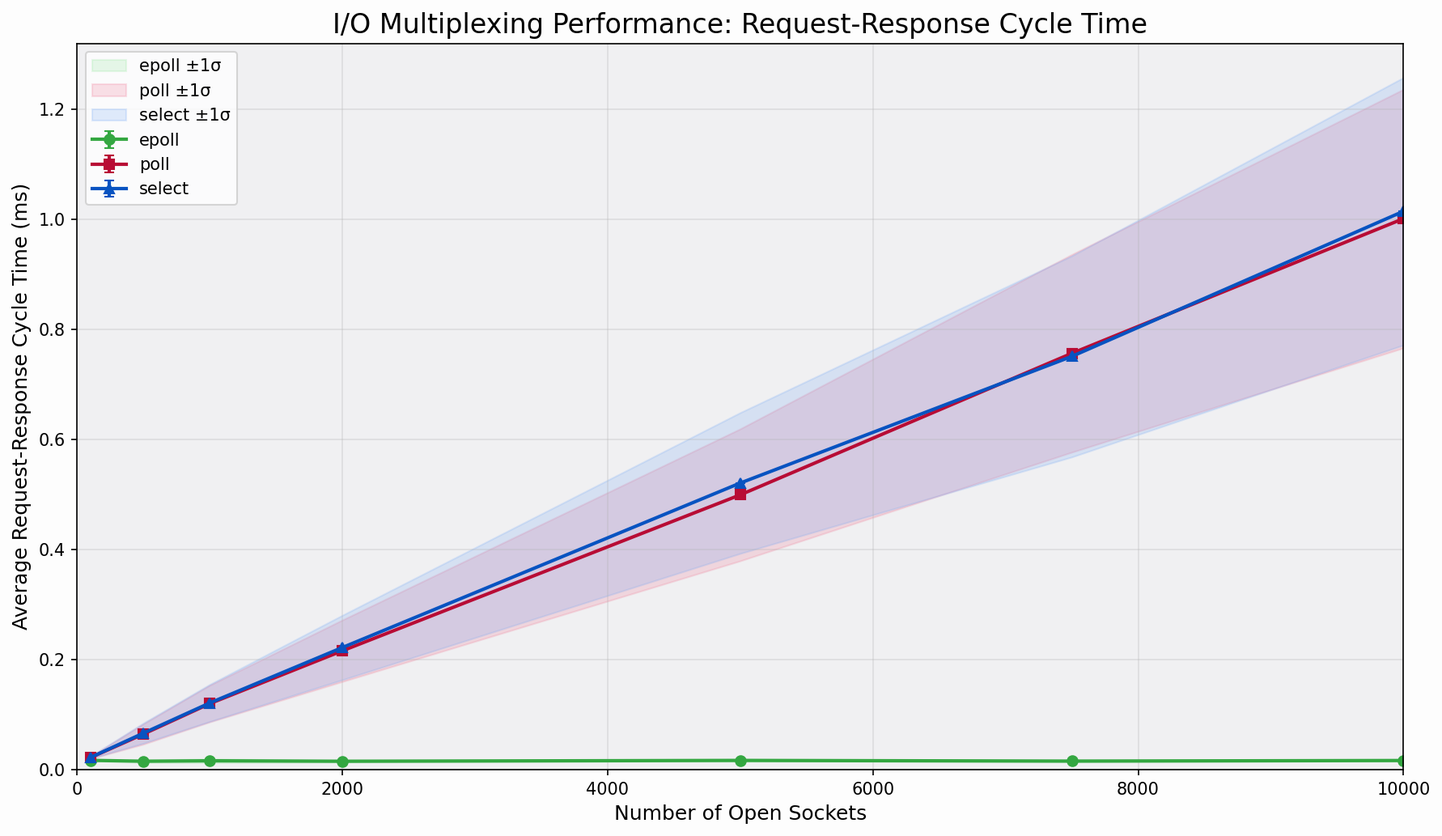
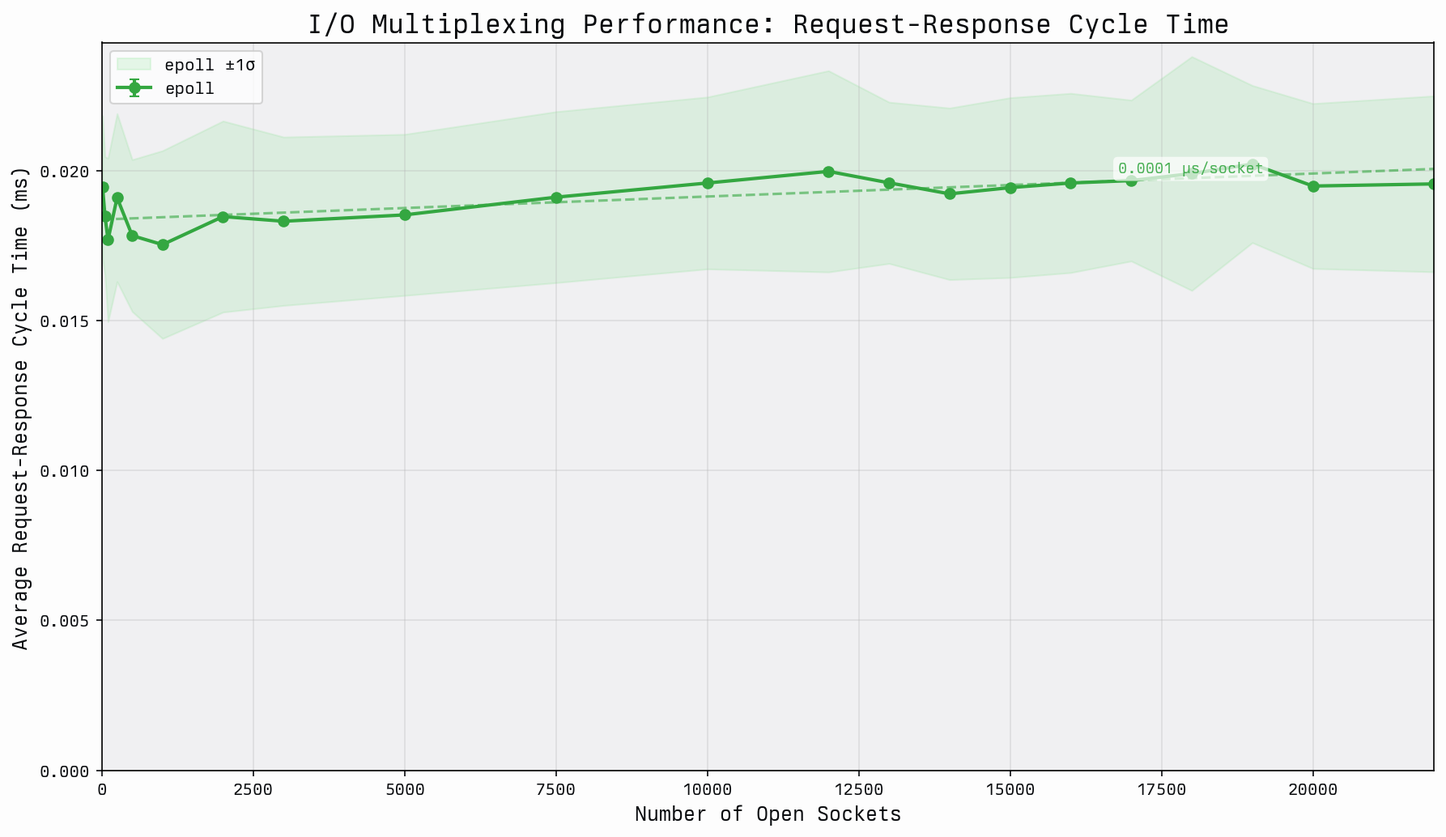
edits

diff --git a/src/content/blog/epoll.md b/src/content/blog/epoll.md
@@ -21,11 +21,11 @@ Which gives us some sense of what we are talking about. But I find that a better
 
 > The classic Unix way to wait for I/O events on multiple file descriptors is with the select() and poll() system calls. When a process invokes one of those calls, the kernel goes through the list of interesting file descriptors, checks to see if non-blocking I/O is available on any of them, and adds the calling process to a wait queue for each file descriptor that would block. This implementation works reasonably well when the number of file descriptors is small. But if a process is managing thousands of file descriptors, the select() and poll() calls must check every single one of them, and add the calling process to thousands of wait queues. For every single call. Needless to say, this approach does not scale very well. [[1]](https://lwn.net/Articles/13587/)
 
-This quote comes from the initial introduction of epoll into the Linux kernel in late 2002. The idea, being rather explicitly outlined, was that watching changes on file descriptors was far too slow at as the count numbered in the thousands. We will discuss why that is done important shortly, but monitoring thousands of file descriptors is one of the foundations of computing today. It’s not uncommon for a single service to get into the tens of thousands of file descriptors. [[2]](https://www.kegel.com/c10k.html) Runtimes that ended up depending on this change, like Node.js, wouldn’t be released until 7 years later, and the foundational event loop for Node.js called [libuv](/blog/libuv) would not be released 2011. It’s not a stretch today to say that epoll is one of the foundations of the internet. [[3]](https://darkcoding.net/software/epoll-the-api-that-powers-the-modern-internet/) In order to understand epoll, the problems it solves and the problems it creates, you have to understand two major ideas: file descriptors and triggering. Let’s start by talking about file descriptors. As with any library, the content in this article may drift towards incorrect over time. This article has been drafted with a lens for Linux `v6.8`. This article will provide an incomplete picture, and if the reader finds themselves wanting for more details, I would encourage [diving into the the Linux source coude](https://github.com/torvalds/linux).
+This quote comes from the initial introduction of epoll into the Linux kernel in late 2002. The idea, being rather explicitly outlined, was that watching changes on file descriptors was far too slow at as the count numbered in the thousands. We will discuss why that is done important shortly, but monitoring thousands of file descriptors is one of the foundations of computing today. It’s not uncommon for a single service to get into the tens of thousands of file descriptors. [[2]](https://www.kegel.com/c10k.html) Runtimes that ended up depending on this change, like Node.js, wouldn’t be released until 7 years later, and the foundational event loop for Node.js called [libuv](/blog/libuv) would not be released 2011. It’s not a stretch today to say that epoll is one of the foundations of the internet. [[3]](https://darkcoding.net/software/epoll-the-api-that-powers-the-modern-internet/) In order to understand epoll, the problems it solves and the problems it creates, you have to understand two major ideas: file descriptors and triggering. Let’s start by talking about file descriptors. As with any library, the content in this article may drift towards incorrect over time. This article has been drafted with a lens for Linux `v6.8`. This article will provide an incomplete picture, and if the reader finds themselves wanting for more details, I would encourage diving into the references and linked content, there is a wealth of information in the references section alone.
 
 # File descriptors
 
-There will be two very similar terms that we will be introducing, **file descriptors** and **file descriptions**. It’s very important to note that while these two ideas are related, they represent different concepts. A file descrition is fundamentally an internal data structure in the linux kernel, we will revisit them momentarily. The important part is **file descriptions are an internal data structure, not to be confused with the more common file descriptors**. We will see why this statement is important later. So what are **file descriptors**?
+There will be two very similar terms that we will be introducing, **file descriptors** and *file descriptions*. It’s very important to note that while these two ideas are related, they represent different concepts. A file descrition is fundamentally an internal data structure in the linux kernel, we will revisit them momentarily. The important part is **file descriptions are an internal data structure, not to be confused with the more common file descriptors**. We will see why this statement is important later. So what are **file descriptors**?
 
 > In Unix and related computer operating systems, a file descriptor (FD, less frequently fildes) is an abstract indicator (handle) used to access a file or other input/output resource, such as a pipe or network socket. [[4]](https://en.wikipedia.org/wiki/File_descriptor)
 
@@ -59,7 +59,7 @@ int main(int f, char *argv[]) {
 
 In this example, we start by opening a file `"abc.txt"`. This file is opened with the permissions `666`, which indicates that the owner, the group and other can all read and write. [[5]](https://en.wikipedia.org/wiki/File-system_permissions) It passes in three flags, represent three ideas: the file is opened in a read/write mode (`O_RDWR`); if the file does not exist, create it as a regular file (`O_CREAT`); if the file already exists and is a regular file, and the access mode allows writing, it will be truncated to length 0 (`O_TRUNC`). We then proceed to immediately write the data `"foo"` to the integer returned from the `open()` call. This integer represents a file descriptor, more specifically a small, nonnegative integer that is an index to an entry in the process's table of open file descriptors. [[6]](https://man7.org/linux/man-pages/man2/open.2.html) We finally wrap up by closing the open file descriptor, and our text file now contains the text `foo`. The question remains though, how do we get from an integer to writing data on a filesystem?
 
-We can start to answer that question with a simplistic view of the world, much like our previous test program. We can break down I/O interactions on Linux into three main components: file descriptors, file tables, and inode tables. Those relationships can be seen here. As a note, we are going to be focused on **file handling** in Linux, a great deal of the concepts apply in pipes and sockets, however, it's just easier to view the world as files.
+We can start to answer that question with a simplistic view of the world, much like our previous test program. We can break down I/O interactions on Linux into three main components: file descriptors, file tables, and inode tables. Those relationships can be seen here. As a note, we are going to be focused on **file handling in Linux in this section**, a great deal of the concepts apply to pipes and sockets, however, it's just easier to view the world as files.
 
 ![A diagram representing three tables, a file descriptor table, a file table and an inode table. There are several entries in each along with arrows relating the left most table, the file descriptor table, to the middle table, the file table, and additional arrows relating the file table to the right most table, the inode table](../../assets/epoll/epoll_simple.png "Simplistic File Descriptor View")
 
@@ -69,7 +69,7 @@ File tables are the bridge between the application view of the world and the fil
 
 > In the traditional implementation of Unix, file descriptors index into a per-process file descriptor table maintained by the kernel, that in turn indexes into a system-wide table of files opened by all processes, called the file table. This table records the mode with which the file (or other resource) has been opened: for reading, writing, appending, and possibly other modes. [[4]](https://en.wikipedia.org/wiki/File_descriptor)
 
-Unfortunately, this model only exists in theory. In reality, there is no large table that represents the bridge between files. Instead we have a following structure.
+Unfortunately, this model only exists in theory. In reality, there is **no large table that represents the bridge between files**. Instead we have a following structure.
 
 ```c
 struct file {
@@ -108,7 +108,7 @@ struct file {
 }
 ```
 
-As you can see from the above, there is some information about the flags for the file, the read ahead state of the file, the position, locks, etc. Rather curiously, there are epoll mechanisms contained within the struct as well. That is to say, there is a fair amount going on with this data structure. This is what is often referred to as a **file description**. This data structure was referenced previous in our process file descriptor table previously. The most important piece I want to call out is the `struct inode` reference in the file. This is the means by which file descriptors are able to reference filesystem elements known as `inodes`. So what is an inode?
+As you can see from the above, there is some information about the flags for the file, the read ahead state of the file, the position, locks, etc. Rather curiously, there are epoll mechanisms contained within the struct as well. That is to say, there is a fair amount going on with this data structure. This is what is often referred to as a *file description*. This data structure was referenced previous in our process file descriptor table previously. The most important piece I want to call out is the `struct inode` reference in the file. This is the means by which file descriptors are able to reference filesystem elements known as `inodes`. So what is an inode?
 
 ## inode table
 
@@ -123,7 +123,7 @@ The formal definition highlights some additional pieces.
 
 > An inode (index node) is a data structure in a Unix-style file system that describes a file-system object such as a file or a directory. Each inode stores the attributes and disk block locations of the object's data. File-system object attributes may include metadata (times of last change, access, modification), as well as owner and permission data. [[7]](https://en.wikipedia.org/wiki/Inode)
 
-However, much like the file table, the inode table doesn't exist. It's an abstraction, in reality, it's just references. Each filesystem contains it's own version of the inode table, called a superblock. We won't discuss the intricacies of particular file system superblock management here, we will instead stop at the discussing of the `struct inode`.
+However, much like the file table, the inode table doesn't really exist. It's an abstraction, in reality, it's just references. Each filesystem contains it's own version of the inode table, called a superblock. We won't discuss the intricacies of particular file system superblock management here, we will instead stop at the discussing of the `struct inode`.
 
 ```c
 struct inode {
@@ -236,11 +236,11 @@ There is so much to file descriptors (often referred to as **fide** from here in
    2. flags
    3. file description pointers, `flag ptr`
 
-These aren't completely outlandish, and give us a reasonable frame of reference to discuss the more important pieces of polling. With that, our view of the world resemebles the following.
+These aren't completely outlandish, and give us a reasonable frame of reference to discuss the more important pieces of polling. With that, our view of the world resembles the following.
 
 ![A diagram of the relationship between process file descriptor tables, file tables and inode tables. It displays four tables of varying colors, two process file descriptor tables and one for the each of the remaining two types. It establishes the major relationships, drawing arrows between shared file descriptors resulting from forks, individual file descriptors and the relationship between file and inode on disk.](../../assets/epoll/epoll_complex.png "A more realistic view of file descriptors")
 
-Now for understanding **epoll**, there are two additional concepts we need to discuss. Those being `fork()` [[8]](https://www.man7.org/linux/man-pages/man2/fork.2.html) and one of the flags for file descriptors called `O_CLOEXEC`, which stands for Open Close-on-Exec. Let's talk about `fork()` first. We need to extend our simplistic example a bit in order to discuss it. As a brief aside for process management, there are only a handful of ways to actually start a process in Linux, the most common of which are `fork()` and `exec()`. [[9]](https://www.man7.org/linux/man-pages/man3/exec.3.html) It's fairly uncommon to see one without the other, so we will be extend our simple process before and splitting up the opening of file descriptors, and the writing of file descriptors.
+Now for understanding epoll, there are two additional concepts we need to discuss. Those being `fork()` [[8]](https://www.man7.org/linux/man-pages/man2/fork.2.html) and one of the flags for file descriptors called `O_CLOEXEC`, which stands for Open Close-on-Exec. Let's talk about `fork()` first. We need to extend our simplistic example a bit in order to discuss it. As a brief aside for process management, there are only a handful of ways to actually start a process in Linux, the most common of which are `fork()` and `exec()`. [[9]](https://www.man7.org/linux/man-pages/man3/exec.3.html) It's fairly uncommon to see one without the other, so we will be extend our simple process before and splitting up the opening of file descriptors, and the writing of file descriptors.
 
 Let's start with our parent.
 
@@ -345,7 +345,9 @@ We still start with the same world view as before, only with the change to the _
 
 ![A diagram of the relationship between process file descriptor tables, file tables and inode tables. It displays four tables of varying colors, two process file descriptor tables and one for the each of the remaining two types. It establishes the major relationships, drawing arrows between shared file descriptors resulting from forks, individual file descriptors and the relationship between file and inode on disk. It has one of the entries gray out in the second file descriptor table, this has a counterpart in the first table where a CLO flag has been set](../../assets/epoll/epoll_close_post.png)
 
-So our writer can not write directly to our file descriptor after the `exec()` which results in the text `"foo"` only being written in the parent process, not in the child. While we have looked at the intricacies of the pieces that make up this diagram, and a simple example that writes to a file, it begs the question, what would a real interaction look like? The following is an example of a simple HTTP server that helps to better illustrate a real world use case.
+So our writer can not write directly to our file descriptor after the `exec()` which results in the text `"foo"` only being written in the parent process, not in the child. So why is this important for epoll? Well, there is a rather serious design flaw in epoll that requires special case handling. Since epoll registers the *file description*, not the **file descriptor**, you need careful handling to avoid sharing epoll-registered file descriptors in `exec()` or `dup()` calls. You could perform careful defensive programming with our `O_CLOEXEC`, or you can use the `EPOLLEXCLUSIVE` flag. Which is all to say, be wary about file descriptor management with epoll, as we will see later, it is a kernel space structure and does not directly interact with the process file table through the use of descriptors.
+
+So, while we have looked at the intricacies of the pieces that make up this diagram, and a simple example that writes to a file, it begs the question, what would a real interaction look like? The following is an example of a simple HTTP server that helps to better illustrate a real world use case.
 
 ```c
 void server_serve(server_t **server) {
@@ -414,11 +416,11 @@ In the above, we use file descriptors at the start of the while loop as part of 
 
 # Event triggers
 
-Interrupt Requests, or IRQs, are often broken into two classes, what is called a hard IRQ and what is called a soft IRQ. [[20]](https://en.wikipedia.org/wiki/Interrupt_request). We will be primarily focused on the interface for constructing hard IRQs for firing soft IRQ tasklets, and will ignore some of the mechanisms for creating softIRQ tasklets and focus exclusively on hardware triggers. If you are dissatisfied with this simplification, I would strongly encourage exploring [this article on this Linux networking stack](https://blog.packagecloud.io/monitoring-tuning-linux-networking-stack-receiving-data/) and [this presentation on IRQs](https://events.static.linuxfound.org/sites/events/files/slides/Chaiken_ELCE2016.pdf). So let's isolate this section to answering the following question.
+We notify programs that files and sockets have received information through interrupt requests. Interrupt Requests, or IRQs, are often broken into two classes, what is called a hard IRQ and what is called a soft IRQ. [[20]](https://en.wikipedia.org/wiki/Interrupt_request). We will be primarily focused on the **interface for constructing hard IRQs for firing soft IRQ tasklets**, and will ignore some of the mechanisms for creating soft IRQ tasklets and **focus exclusively on hardware triggers**. If you are dissatisfied with this simplification, I would strongly encourage exploring [this article on this Linux networking stack](https://blog.packagecloud.io/monitoring-tuning-linux-networking-stack-receiving-data/) and [this presentation on IRQs](https://events.static.linuxfound.org/sites/events/files/slides/Chaiken_ELCE2016.pdf). So let's isolate this section to answering the following question.
 
 > How does a inode know it has data ready to read from it's file descriptor?
 
-The answer to this question fundamentally boils down to trigger mechanisms. There are two classes of triggers in the IRQ space, level and edge triggers. Both have their respective use cases, here is a grab bag of example use cases:
+The answer to this question fundamentally boils down to trigger mechanisms. There are two classes of triggers in the IRQ space, level and edge triggers. Both have their respective use cases, here is a grab bag of example use cases that also rely on epoll:
 
 - Level Triggers
   - [Redis](https://github.com/redis/redis/blob/8.4.1/src/ae_epoll.c)
@@ -447,19 +449,23 @@ As you can see, each time data is added, we notify, but we don't notify for read
 
 # I/O Polling
 
-As you may already be aware, performing I/O is, begrudgingly, one of the major values of a computer. I have a saying that I often refer to, I don't know the origination but it amounts to the following: "Computers were perfect until we connected them together and let them talk". However, I also recognize that computers would be normal near as popular as they are today if they couldn't. So if we know what tracks events, and how events are triggered, how do we notify programs that they need to do something with these events? This is where the I/O polling syscalls come into play.
+As you may already be aware, performing I/O is one of the major values of a computer. I have a saying that I often refer to, I don't know the origination but it amounts to the following: 
+
+> "Computers were perfect until we connected them together and let them talk". 
+
+However, I also recognize that computers would not be near as popular as they are today if they couldn't talk to eachother. So if we know what tracks events, and how events are triggered, how do we notify programs that they need to do something with these events? This is where the I/O polling syscalls come into play.
 
 ## select and poll
 
-Before we start to talk about **epoll**, we need to discuss it's precursor `select()` and `poll()`. We will start by exploring `select()`.
+Before we start to talk about epoll, we need to discuss it's precursor `select()` and `poll()`. We will start by exploring `select()`.
 
 > select is a system call and application programming interface (API) in Unix-like and POSIX-compliant operating systems for examining the status of file descriptors of open input/output channels. [[11]](https://en.wikipedia.org/wiki/Select_%28Unix%29)
 
-`select()` is a system call for synchronous I/O multiplexing. Let's break that statement down a bit. We start with the word "synchronous", which is rather obviously counter to the asynchronous nature of Node.js and generally the nature of **epoll**. However, `select()` was one of the very first I/O management system calls, and as such, did not have anywhere near the same scale of problem that computing had today. It was introduced in 4.2BSD Unix in 1983! [[12]](https://daniel.haxx.se/docs/poll-vs-select.html) The second half of that original statement, **multiplexing**, refers to the idea of taking multiple signals and producing a single signal from them.
+`select()` is a system call for synchronous I/O multiplexing. Let's break that statement down a bit. We start with the word "synchronous", which is rather obviously counter to the asynchronous nature of Node.js and generally the nature of epoll. However, `select()` was one of the very first I/O management system calls, and as such, did not have anywhere near the same scale of problem that computing had today. It was introduced in 4.2BSD Unix in 1983! [[12]](https://daniel.haxx.se/docs/poll-vs-select.html) The second half of that original statement, **multiplexing**, refers to the idea of taking multiple signals and producing a single signal from them.
 
 > In computing, I/O multiplexing can also be used to refer to the concept of processing multiple input/output events from a single event loop, with system calls like poll and select (Unix). [[13]](https://en.wikipedia.org/wiki/Multiplexing)
 
-To rephrase our original definition. `select()` is a system call that will handle multiple I/O events and produce one event for processing when called. So, hat does this call end up looking like?
+To rephrase our original definition. `select()` is a system call that will handle multiple I/O events and produce one event for processing when called. So, what does this call end up looking like?
 
 ```c
 int select(
@@ -471,13 +477,13 @@ int select(
 );
 ```
 
-This interface highlights a few interesting ideas. The first is the use of file descriptors, in read, write and exception modes. Read and write make sense, but what's an "exceptional mode". Generally, exceptional modes break down into the following ideas:
+This interface highlights a few interesting ideas. The first is the use of file descriptors, in read, write and exception modes. Read and write make sense, but what's an *exceptional mode*? Generally, exceptional modes break down into the following ideas:
 
 - There is out-of-band data on a TCP socket [[14]](https://www.man7.org/linux/man-pages/man7/tcp.7.html)
 - A pseudoterminal boss in packet mode has seen a state change on the worker [[15]](https://www.man7.org/linux/man-pages/man2/ioctl_tty.2.html)
 - A cgroup.events file has been modified [[16]](https://www.man7.org/linux/man-pages/man7/cgroups.7.html)
 
-We won't really discuss those ideas in more detail. I encourage perusing the man pages if you have follow up questions here. However, I feel that's insufficient to describe select in detail. I try to make a habit of exploring code more deeply than just the interface layer, so let's try to break down more clearly what is happening.
+We won't really discuss those ideas in more detail. I encourage perusing the man pages if you have follow up questions here. With that being said, I feel that's insufficient to describe select in detail. I try to make a habit of exploring code more deeply than just the interface layer, so let's try to break down more clearly what is happening.
 
 ```c
 static int do_select(int n, fd_set_bits *fds, struct timespec64 *end_time) {
@@ -567,7 +573,7 @@ static int do_select(int n, fd_set_bits *fds, struct timespec64 *end_time) {
 }
 ```
 
-Note, a great deal of the code has been truncated to focus the conversation. As a fun fact, the last time this section of code, that was pulled from the `v6.8` kernel, was touched 5 years ago. There has been [one change since then which you can see here](https://github.com/torvalds/linux/commit/d000e073ca2a08ab70accc28e93dee8d70e89d2f), that change however, makes it harder to talk about the single function, so we will stick with `v6.8`. This function highlights why `select()` has failed to scale. `select()` will fundamentally iterate one by one over the file descriptors passed in and use that to determine if eventing has occurred. It uses the `retval = max_select_fd(n, fds)` to determine the number of file descriptors to loop over, then passed that to the top loop: `for (i = 0; i < n; ++rinp, ++routp, ++rexp) {`. From there, it determines the file descriptor to read, and it determines whether event handling notification is required.
+Note, a great deal of the code has been truncated to focus the conversation. As a fun fact, the last time this section of code, that was pulled from the `v6.8` kernel, was touched 5 years ago. There has been [one change since then which you can see here](https://github.com/torvalds/linux/commit/d000e073ca2a08ab70accc28e93dee8d70e89d2f), that change however, makes it harder to talk about the single function, so we will stick with `v6.8`. This function highlights why `select()` has failed to scale. `select()` will iterate one by one over the file descriptor space passed in and use that to determine if eventing has occurred. It uses the `retval = max_select_fd(n, fds)` to determine the number of file descriptors to loop over, then passed that to the top loop: `for (i = 0; i < n; ++rinp, ++routp, ++rexp) {`. This has the rather unfortuante problem that it is based on a bitset, so if we wanted to watch file descriptor `1` and `20`, we would likely pass the range from `1 -> 20`. From there, it determines the file descriptor to read, and it determines whether event handling notification is required.
 
 ```c
   /* ...truncated */
@@ -582,7 +588,7 @@ Note, a great deal of the code has been truncated to focus the conversation. As 
   /* ...truncated */
 ```
 
-How does this compare to it's newer counterpart `poll()`? `poll()` was introduced in SVR3 Unix in 1987. [[12]](https://daniel.haxx.se/docs/poll-vs-select.html) And it generally functions very similarly to `select()`. It is also a I/O multiplexing mechanism, but it has one major advantage over `select()` it performs far better on sparse file descriptors. The problem with `select()` was that the way you interacted with it was by giving it bitsets. Those bitsets meant that you enumerated file descriptors that you might not actually be interested processing. `poll()` mildly improves upon this by allowing you to pass explicit file descriptors, so the scan over the bitset becomes unnecessary. This is demonstrated in the interface.
+How does this compare to it's newer counterpart `poll()`? `poll()` was introduced in SVR3 Unix in 1987. [[12]](https://daniel.haxx.se/docs/poll-vs-select.html) And it generally functions very similarly to `select()`. It is also a I/O multiplexing mechanism, but it has one major advantage over `select()` it allows you to pass in an interest list of file descriptors. The problem with `select()` was that the way you interacted with it was by giving it bitsets. Those bitsets meant that you enumerated file descriptors that you might not actually be interested processing. `poll()` improves upon this by allowing you to pass an interest list, so the scan over the bitset becomes unnecessary. This is demonstrated in the interface.
 
 ```c
 int poll(
@@ -664,15 +670,15 @@ static int do_poll(struct poll_list *list, struct poll_wqueues *wait, struct tim
 }
 ```
 
-This is a lot like the `do_select()` function. We are doing a linear scan of arguments, the only change is that we do not do any bitset management for determining file descriptors to scan. We just iterate over the list we were initially passed. However, both `select()` and `poll()` has the same problem, they are linear in time. This is a serious problem as the number of watched file descriptors start to grow. Which is where **epoll** steps in.
+This is a lot like the `do_select()` function. We are doing a linear scan of arguments, the only change is that we do not do any bitset management for determining file descriptors to scan. We just iterate over the list we were initially passed. However, both `select()` and `poll()` has the same problem, they are linear in time. This is a serious problem as the number of watched file descriptors start to grow. Which is where epoll steps in.
 
 ## epoll
 
-**epoll** is not represented by a single interface, in fact, it's three separate interfaces. As a general note for this section, unlike the previous section, we will be stopping at the interface level. The functions here are not as contained as `poll()` and `select()` and often branch into other areas. As can be expected, as systems branch from simple linear scans of file descriptors, the underlying code gets more complex. So focusing on the interfaces, they are:
+epoll is not represented by a single interface, in fact, it's three separate interfaces. As a general note for this section, unlike the previous section, we will be stopping at the interface level for most functions. The functions here are not as contained as `poll()` and `select()` and often branch into other areas. So focusing on the interfaces, they are:
 
-- `epoll_create()` which is responsible for opening the **epoll** file descriptor [[17]](https://www.man7.org/linux/man-pages/man2/epoll_create.2.html)
-- `epoll_ctl()` which is a control interface for the **epoll** file descriptor [[18]](https://www.man7.org/linux/man-pages/man2/epoll_ctl.2.html)
-- `epoll_wait()` which is responsible for waiting for an I/O event on an **epoll** file descriptor [[19]](https://www.man7.org/linux/man-pages/man2/epoll_wait.2.html)
+- `epoll_create()` which is responsible for opening the epoll file descriptor [[17]](https://www.man7.org/linux/man-pages/man2/epoll_create.2.html)
+- `epoll_ctl()` which is a control interface for the epoll file descriptor [[18]](https://www.man7.org/linux/man-pages/man2/epoll_ctl.2.html)
+- `epoll_wait()` which is responsible for waiting for an I/O event on an epoll file descriptor [[19]](https://www.man7.org/linux/man-pages/man2/epoll_wait.2.html)
 
 If you notice, that really only talks about one file descriptor, so how does one file descriptor manage thousands of other file descriptors? The answer is that epoll is not just a system call, it's actually a data structure in the kernel. This data structure is given by the following.
 
@@ -730,7 +736,7 @@ struct eventpoll {
 };
 ```
 
-And we can create that data structure is created from by using the first interface we are going to be discussing `epoll_create()`.
+Note the use of `struct file` here and not the file descriptor. We are in kernel space now, not user space. We can create that data structure is created from by using the first interface: `epoll_create()`.
 
 ```c
 #include <sys/epoll.h>
@@ -747,7 +753,7 @@ The system call returns a file descriptor to the newly created epoll kernel data
 
 ![Complex File Descriptor View](../../assets/epoll/epoll_create_post.png)
 
-This file descriptor that has been returned can now be modify with the second in our syscall list, `epoll_ctl()`.
+This file descriptor that has been returned can now be modified with the second in our syscall list, `epoll_ctl()`.
 
 ```c
 #include <sys/epoll.h>
@@ -759,21 +765,21 @@ int epoll_ctl(
 );
 ```
 
-Going through the arguments, `epfd` is the file descriptor for the **epoll** data structure, `fd` is the file descriptor we want to add to the epoll list, `o` refers to the operation to be performed on the file descriptor and `event` is a pointer to a structure which stores the event we actually want to monitor for. In general, three operations are supported for the `op`:
+Going through the arguments, `epfd` is the file descriptor for the epoll data structure, `fd` is the file descriptor we want to add to the epoll list, `o` refers to the operation to be performed on the file descriptor and `event` is a pointer to a structure which stores the event we actually want to monitor for. In general, three operations are supported for the `op`:
 
-- `EPOLL_CTL_ADD` which registers fd with the **epoll** instance and get notified about events that occur on fd
-- `EPOLL_CTL_DEL` which deregisters the fd from the epoll instance. An important note is that if a file descriptor has been added to multiple **epoll** instances, then closing it will remove it from all of the epoll interest lists to which it was added.
-- `EPOLL_CTL_MOD` which modifies the events **epoll** is monitoring on the fd.
+- `EPOLL_CTL_ADD` which registers fd with the epoll instance and get notified about events that occur on fd
+- `EPOLL_CTL_DEL` which deregisters the fd from the epoll instance. An important note is that if a file descriptor has been added to multiple epoll instances, then closing it will remove it from all of the epoll interest lists to which it was added.
+- `EPOLL_CTL_MOD` which modifies the events epoll is monitoring on the fd.
 
 So let's look at a simple example where we add a bunch of file descriptors to be modified.
 
 ![Complex File Descriptor View](../../assets/epoll/epoll_ctl_pre.png)
 
-We generally start with the `epoll_ctl()` call on the **epoll** data structure, in this case, we call with several `EPOLL_CTL_ADD`.
+We generally start with the `epoll_ctl()` call on the epoll data structure, in this case, we call with several `EPOLL_CTL_ADD`.
 
 ![Complex File Descriptor View](../../assets/epoll/epoll_ctl_post.png)
 
-And then afterwards, our internal **epoll** data structure has been populated with the requisite file descriptors. So now, we need to know which file descriptors have the events that we are interested in, which brings us to the final syscall interface, `epoll_wait()`.
+And then afterwards, our internal epoll data structure has been populated with the requisite file descriptors. So now, we need to know which file descriptors have the events that we are interested in, which brings us to the final syscall interface, `epoll_wait()`.
 
 ```c
 #include <sys/epoll.h>
@@ -785,7 +791,7 @@ int epoll_wait(
 );
 ```
 
-Iterating through the arguments again, `epfd` is the file descriptor for the **epoll** data structure, `evlist` is an array of structures allocated by the calling process and populated by **epoll**, this is also called the ready list. `maxevents` is the length of `evlist` and `timeout` specifies how long we should block for. Some possibilities here are:
+Iterating through the arguments again, `epfd` is the file descriptor for the epoll data structure, `evlist` is an array of structures allocated by the calling process and populated by epoll, this is also called the ready list. `maxevents` is the length of `evlist` and `timeout` specifies how long we should block for. Some possibilities here are:
 
 - When the timeout is set to 0, `epoll_wait()` does not block but returns immediately after checking which file descriptors in the interest list for `epfd` are ready
 - When timeout is set to -1, `epoll_wait()` will block "forever". By "forever", `epoll_wait()` will block until one of the file descriptors becomes ready or a call is interrupted by a signal handler.
@@ -923,13 +929,15 @@ As part of this blog, I endeavored to recreate this benchmark for a more modern 
 - A number of requests (`R`) per file descriptor to run
 - A number of warmup requests (`W`) to ignore.
 
-For each file descriptor, there would be one open socket, and each socket was required to perform `R` requests. The server would handle them in kind, and respond asynchronously. The client would then watch the file descriptors and ascertain readiness. The benchmark did not include the construction of the sockets, nor the number of warmup requests `W`, which means that **epoll** performs incredibly well by comparison, highlighting a _O(1)_ time complexity, when compared to the _O(n)_ time complexity of `poll()` and `select()`. The measured output is the mean time per request as a function of `N`, with the variance calculated using the Welford Variance algorithm with the Bessel correction.
+For each file descriptor, there would be one open socket simulating a watched file descriptor. Only a portion of the file descriptors were active, these were clamped at a minimum of 10, and a maximum of 10% of the `N`. Each active socket was required to perform `R` requests. The server would handle them in kind, and respond asynchronously. The client would then watch the file descriptors and ascertain readiness. The benchmark did not include the construction of the sockets, nor the number of warmup requests `W`. The measured output is the mean time per request as a function of `N`, with the variance calculated using the Welford Variance algorithm with the Bessel correction. As an additional note, in order to circumvent the `FD_SETSIZE` limit in glibc, for the select implementation, there was a dynamic fd set constructed for managing the possible enumerable `select()` bitsets. This is generally not a smart way to use `select()`, but for the purposes of this benchmark, it was a reasonable enough approach to exceed the limits.
 
-![Graph that demonstrates the performance of a single asynchronous echo request for select, poll, and epoll over a number of open sockets, ranging from 0 to 10000](../../assets/epoll/epoll_benchmark_results.png)
+![Graph that demonstrates the performance of a single asynchronous echo request for select, poll, and epoll over a number of open sockets, ranging from 0 to 10000](../../assets/epoll/iopoll_benchmark_results.png)
 
-As an additional note, in order to circumvent the `FD_SETSIZE` limit in glibc, for the select implementation, there was a dynamic fd set constructed for managing the possible enumerable `select()` bitsets. This is generally not a smart way to use `select()` and the resulting file descriptor density means that `poll()` and `select()` perform very similarly.
+The dominant players in this graph are going to be `select()` and `poll()`. We can clearly see that both scale linearly, but the gap between the scale factors is rather wide. This is due to the sparse file descriptor space as part of the bounds of the benchmark. In dense file descriptor spaces, `select()` and `poll()` perform identically. The least interesting portion of the graph is a near linear performance in the case of epoll. Although it seems linear, the performance of epoll is technically going to be _O(log(n))_ because we delete and add file descriptors as part of each request handle, which is reasonably similar to how most systems would perform. The network request duration unfortunately far outweighs the performance impact of the file descriptor add and deletion at this scale. As we start to get progressively larger monitored file descriptor spaces, clamping at 90% instead of 10% active, and extend beyond the 10,000 limit, we start to observe the impact a bit more, but are still bound by the dominance of the network.
 
-Additionally, beyond just the performance benchmarks. There are handful of fundamental problems in **epoll** that required special edge case handling in order to make the system viable. These are discussed in better detail than I can present in the following posts and videos, I highly encourage them for those interested in understanding the pitfalls of epoll even deeper.
+![Graph that demonstrates the performance of a single asynchronous echo request for epoll over a number of open sockets, ranging from 0 to 22000](../../assets/epoll/epoll_benchmark_results.png)
+
+Even though the performance benchmarks tell a great story, there are handful of fundamental problems in epoll that required special edge case handling in order to make the system viable. I talked about one of the cases in the file descriptors section. These are discussed in better detail than I can present in the following posts and videos, I highly encourage them for those interested in understanding the pitfalls of epoll even deeper.
 
 1. [Epoll is fundamentally broken 1/2](https://idea.popcount.org/2017-02-20-epoll-is-fundamentally-broken-12/)
 2. [Epoll is fundamentally broken 2/2](https://idea.popcount.org/2017-03-20-epoll-is-fundamentally-broken-22/)
